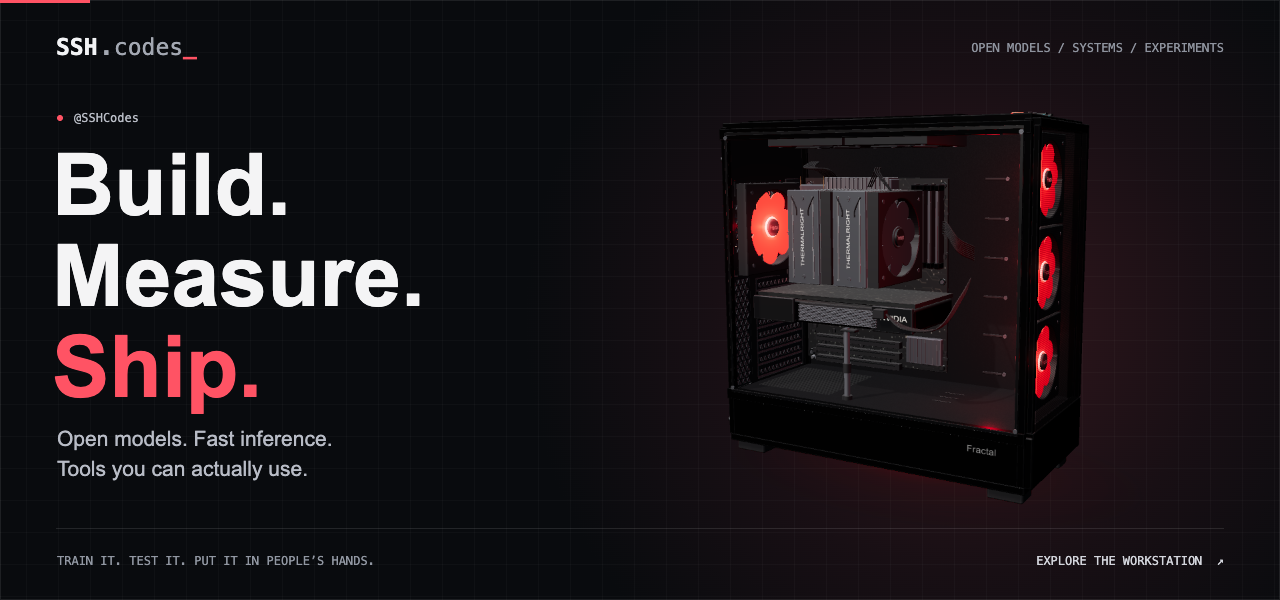
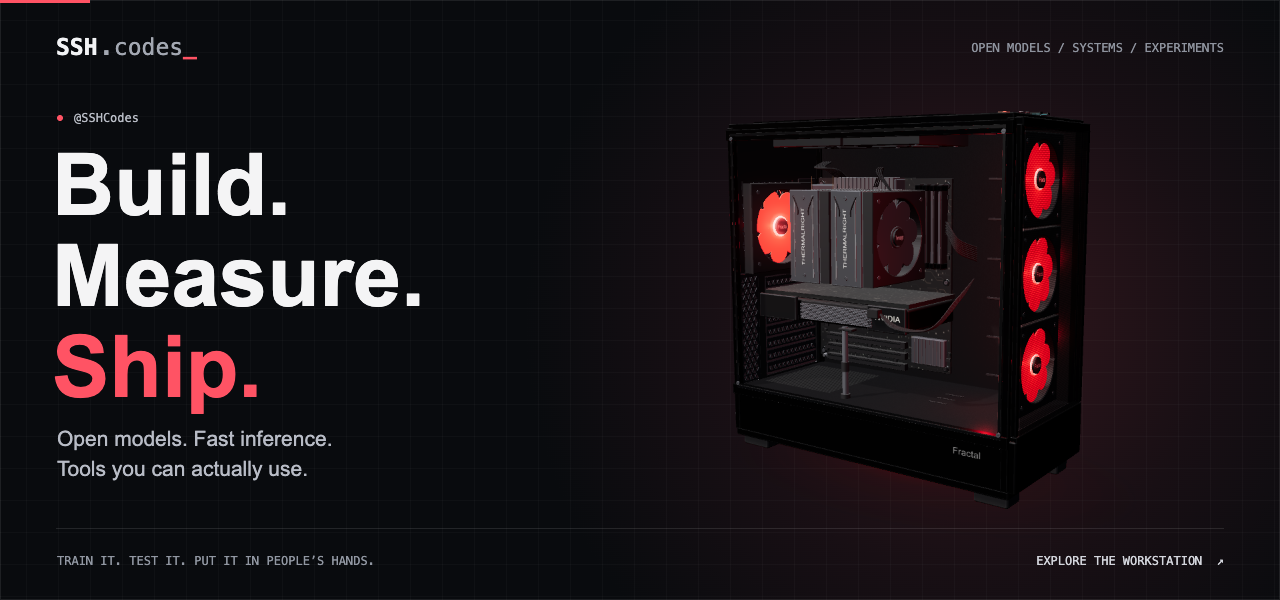
Keep workstation angle fixed and remove BG0 from selected builds

diff --git a/tools/render.html b/tools/render.html
@@ -18,7 +18,7 @@
   p { max-width: 1280px; padding: 0 28px; color: #8b919b; }
 </style>
 <header><b>SSH / Profile render studio</b><button id="export" disabled>Export 120 frames</button><span id="status" role="status">Building the real workstation scene…</span></header>
-<canvas id="banner" width="1280" height="600" aria-label="SSH.codes. Build. Measure. Ship. A realistic red-lit workstation with a slowly orbiting camera."></canvas>
+<canvas id="banner" width="1280" height="600" aria-label="SSH.codes. Build. Measure. Ship. A realistic red-lit workstation at a fixed angle with spinning fans."></canvas>
 <p>The scene comes from ssh.codes. Export writes only to this local project’s .render/frames directory.</p>
 <script type="module">
 const W = 1280, H = 600, FRAME_COUNT = 120;
@@ -79,12 +79,12 @@ try {
   ws.renderer.setPixelRatio(1.5); ws.renderer.setSize(710, 500, false);
   ws.composer.setPixelRatio(1.5); ws.composer.setSize(710, 500);
   ws.camera.aspect = 710/500; ws.camera.fov = 33; ws.camera.updateProjectionMatrix();
+  // Keep the chassis still; only the fan rotors move throughout the loop.
+  ws.camera.position.set(7.6, 4.65, 10.92);
+  ws.controls.target.set(0, 2.67, 0); ws.controls.update();
 
   function draw(index) {
     const phase = index / FRAME_COUNT * Math.PI * 2;
-    const angle = .50 + .13 * Math.sin(phase);
-    ws.camera.position.set(Math.sin(angle)*13.3, 4.65 + .10*Math.sin(phase), Math.cos(angle)*13.3);
-    ws.controls.target.set(0, 2.67, 0); ws.controls.update();
     ws.spinningFans.forEach((fan, i) => { fan.rotor.rotation.z = -phase * (8 + i); });
     ws.renderer.shadowMap.needsUpdate = true;
     ws.composer.render();

diff --git a/README.md b/README.md
@@ -1,7 +1,7 @@
 <a href="https://ssh.codes/#workstation-reconstruction">
   <picture>
     <source media="(prefers-reduced-motion: reduce)" srcset="assets/workstation.png">
-    <img src="assets/workstation.gif" width="1280" alt="SSH.codes — Build. Measure. Ship. A realistic 3D render of my workstation, with red-lit spinning fans and a slow camera orbit. Click to explore it on ssh.codes.">
+    <img src="assets/workstation.gif" width="1280" alt="SSH.codes — Build. Measure. Ship. A realistic 3D render of my workstation at a fixed angle, with red-lit spinning fans. Click to explore it on ssh.codes.">
   </picture>
 </a>
 
@@ -32,7 +32,6 @@ The workstation above is the same **Three.js reconstruction of my real machine**
 | **[GLM on Blackwell](https://github.com/SSHdotCodes/glm-5.3-flash-pro6000)** | Single-GPU GLM-5.3-Flash serving, RAM expert caching, DFlash2, and reproducible benchmarks. |
 | **[Qwen on Blackwell](https://github.com/SSHdotCodes/qwen-3.8-flash-next-pro6000)** | Qwen3.8-Flash-Next inference tuning, full-context serving, and correctness checks on an RTX PRO 6000. |
 | **[Second Opinion](https://github.com/SSHdotCodes/second-opinion)** | Let Claude bring other AI models into the work through MCP. |
-| **[BG0](https://github.com/SSHdotCodes/bg0)** | Private background removal in your browser, powered by WebGPU with a WASM fallback. |
 | **[Videopaper](https://github.com/SSHdotCodes/Videopaper)** | Native macOS live wallpapers, including a real-time black hole ray tracer in Metal. |
 | **[Codex RPC](https://github.com/SSHdotCodes/codex-rpc)** | Discord Rich Presence for the Codex CLI, with animated activity states. |
 

diff --git a/assets/README.md b/assets/README.md
@@ -11,8 +11,8 @@ The model was copied from a fresh `ssh-codes-root` Pi source archive on
 without changes to its geometry, materials, or interaction code. Its SHA-256 is
[1 lines of base64/hex data omitted]
 
-The profile renderer adds a charcoal/red composition, a gentle orbit, deterministic
-fan rotation, and brighter room lighting. It uses the original scene's exposed
+The profile renderer adds a charcoal/red composition, a fixed three-quarter view,
+deterministic fan rotation, and brighter room lighting. It uses the original scene's exposed
 rendering controls. The original scene and the new composition belong to this
 profile; Three.js and esbuild remain external npm dependencies under their own
 licenses. No production server or website changes are needed to regenerate it.
